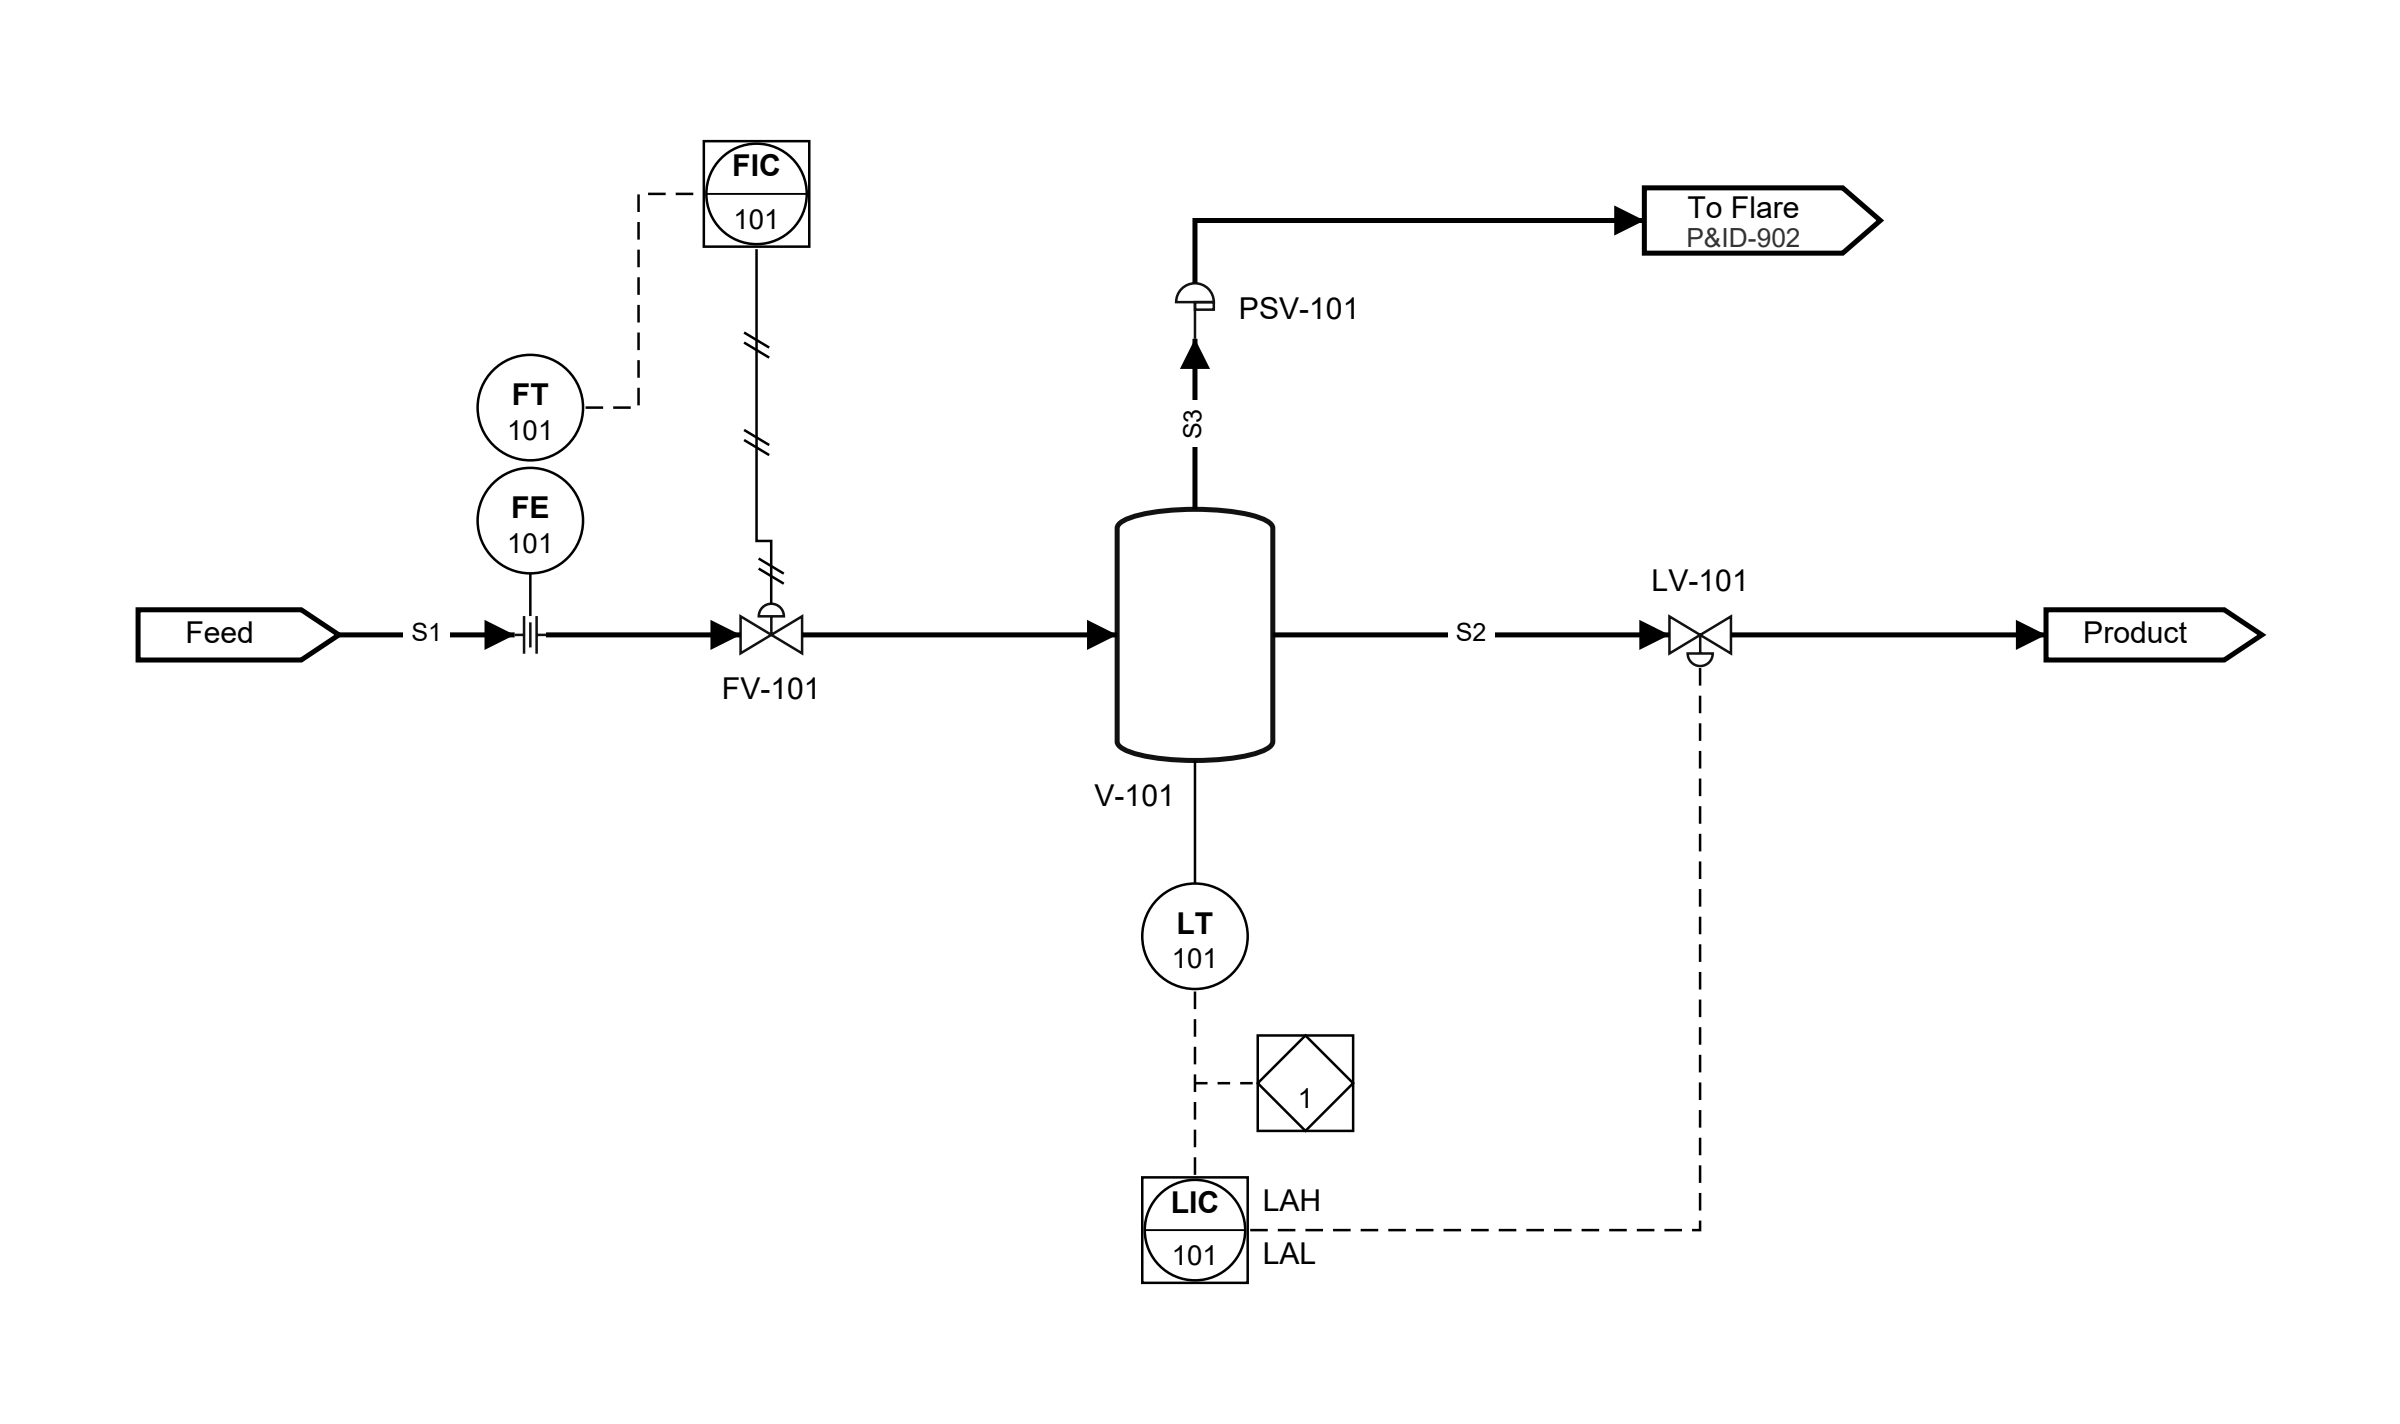
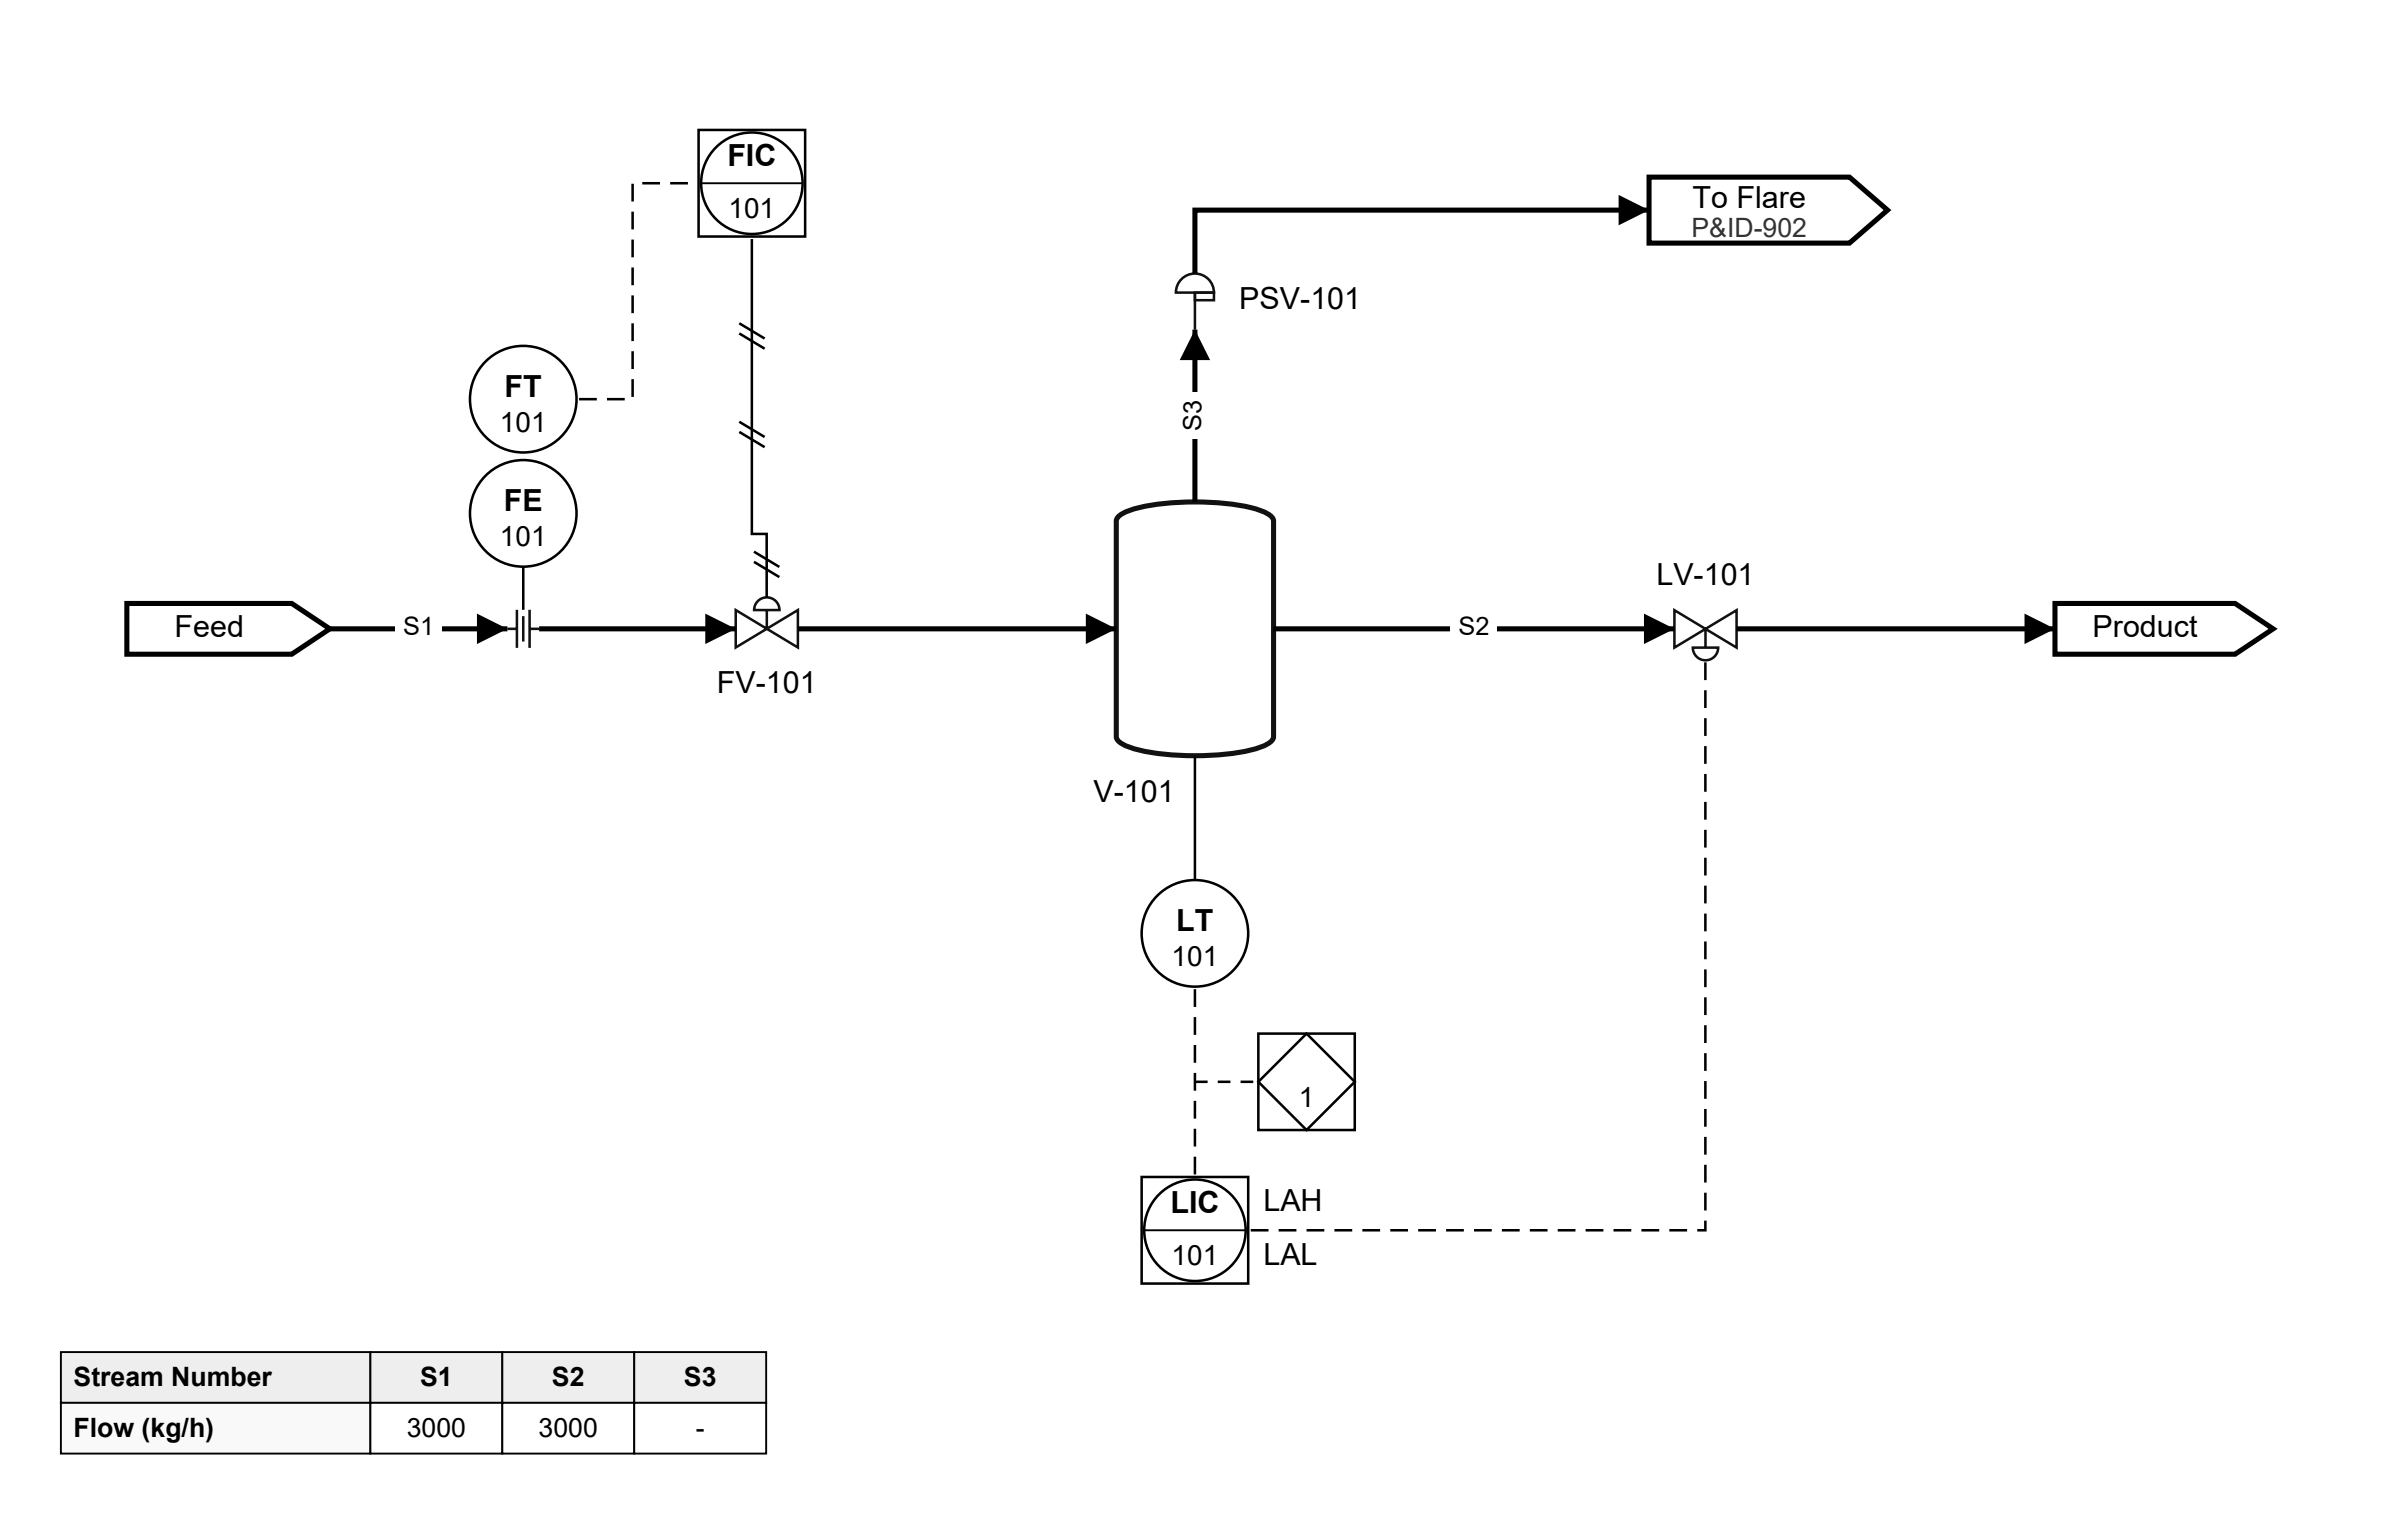
fix(examples): tabulate the control-loop demo's boundary streams
04_control_loop raised stream-table-missing (#410). The surge drum only
buffers what passes through it, so the feed and the main outlet carry the
same number; the relief line is open only on overpressure and carries none
in normal service, so it states that with a blank value rather than a
number -- the convention boundary-flow-missing already reads. Render with
show_stream_table=True to report it.

diff --git a/tests/test_golden.py b/tests/test_golden.py
@@ -308,13 +308,13 @@ def _control_loop() -> Flowsheet:
     )
     flare = fs.add(units.Product("To Flare", reference="P&ID-902")).pin(x=630, y=30)
 
-    fs.connect(feed.outlet, fe.inlet)
+    feed_in = fs.connect(feed.outlet, fe.inlet)
     fs.connect(fe.outlet, fv.inlet)
     fs.connect(fv.outlet, drum.inlet)
     fs.connect(drum.outlet, lv.inlet)
-    fs.connect(lv.outlet, prod.inlet)
+    product_out = fs.connect(lv.outlet, prod.inlet)
     fs.connect(drum.vent, psv.inlet)
-    fs.connect(psv.outlet, flare.inlet)
+    relief_out = fs.connect(psv.outlet, flare.inlet)
 
     # The one fixture carrying a primary element's balloon: the plate's tag
     # moves into it, the fitting is left unlettered, and FT-101 stacks on top.
@@ -344,6 +344,10 @@ def _control_loop() -> Flowsheet:
     measurement = fs.connect(lt.sig_out, lic.sig_in, kind="electric")
     fs.add_instrument("I", 1, sensing=measurement, at=0.5, offset=44, angle=90, variant="logic")
     fs.connect(lic.sig_out, lv.actuator, kind="electric")
+
+    feed_in.properties = {"Flow (kg/h)": "3000"}
+    product_out.properties = {"Flow (kg/h)": "3000"}
+    relief_out.properties = {"Flow (kg/h)": ""}
     return fs
 
 
@@ -4112,7 +4116,7 @@ SCENARIOS = {
     # feature existed.
     "02_manual_layout": (_manual_layout, {"debug": True, "show_stream_table": True}),
     "03_distillation_train": (_distillation_train, {"show_stream_table": True, "border": "zone"}),
-    "04_control_loop": (_control_loop, {}),
+    "04_control_loop": (_control_loop, {"show_stream_table": True}),
     "05_reactor_recycle": (_reactor_recycle, {}),
     "06_column_reflux": (_column_reflux, {}),
     "07_metering_skid": (_metering_skid, {}),

diff --git a/examples/04_control_loop.py b/examples/04_control_loop.py
@@ -78,13 +78,13 @@ def main():
         port="inlet", x=420 + port_offset(drum, "vent")[0])
     flare = fs.add(Product("To Flare", reference="P&ID-902")).pin(x=630, y=30)
 
-    fs.connect(feed.outlet, fe.inlet)
+    feed_in = fs.connect(feed.outlet, fe.inlet)
     fs.connect(fe.outlet, fv.inlet)
     fs.connect(fv.outlet, drum.inlet)
     fs.connect(drum.outlet, lv.inlet)
-    fs.connect(lv.outlet, prod.inlet)
+    product_out = fs.connect(lv.outlet, prod.inlet)
     fs.connect(drum.vent, psv.inlet)
-    fs.connect(psv.outlet, flare.inlet)
+    relief_out = fs.connect(psv.outlet, flare.inlet)
 
     # Flow loop. The plate's tag moves into a balloon on the impulse
     # line, so the fitting draws none. offset= is measured from the
@@ -119,7 +119,14 @@ def main():
                       variant="logic")
     fs.connect(lic.sig_out, lv.actuator, kind="electric")
 
-    fs.render(out("control_loop.svg"))
+    # The drum only buffers what passes through it, so the feed and the
+    # main outlet carry the same number; the relief line is open only
+    # on overpressure and carries none in normal service.
+    feed_in.properties = {"Flow (kg/h)": "3000"}
+    product_out.properties = {"Flow (kg/h)": "3000"}
+    relief_out.properties = {"Flow (kg/h)": ""}
+
+    fs.render(out("control_loop.svg"), show_stream_table=True)
     print("Generated control_loop.svg")
 
 
